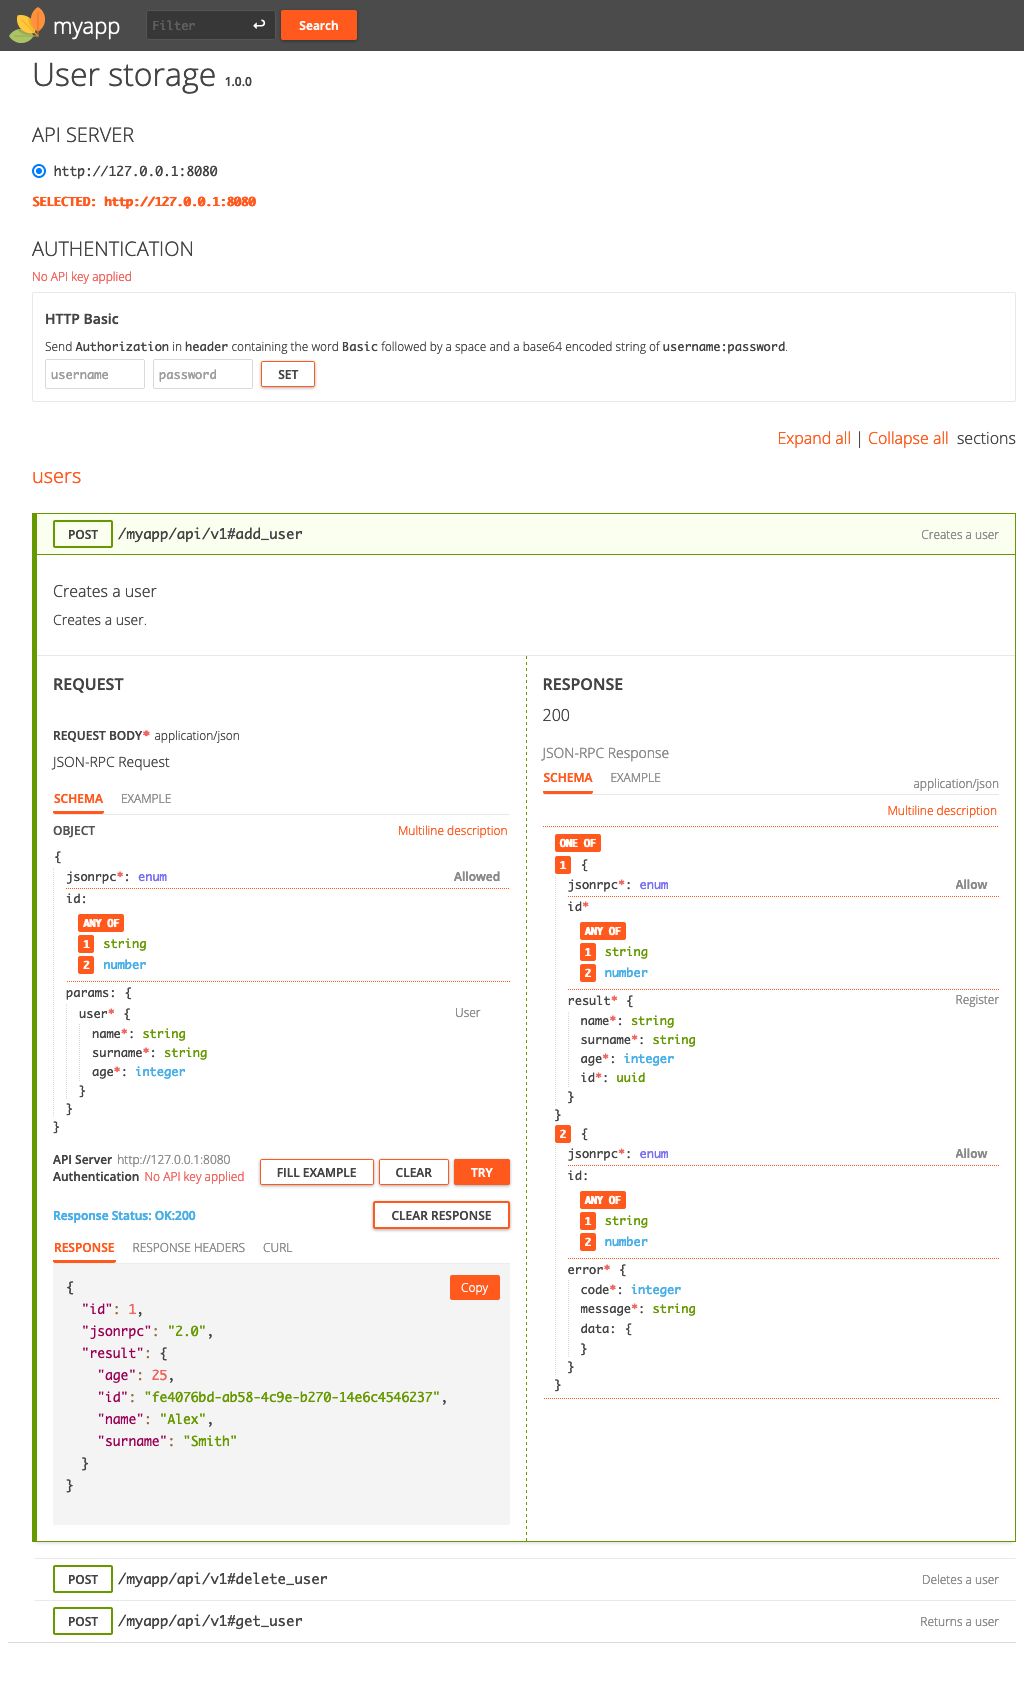
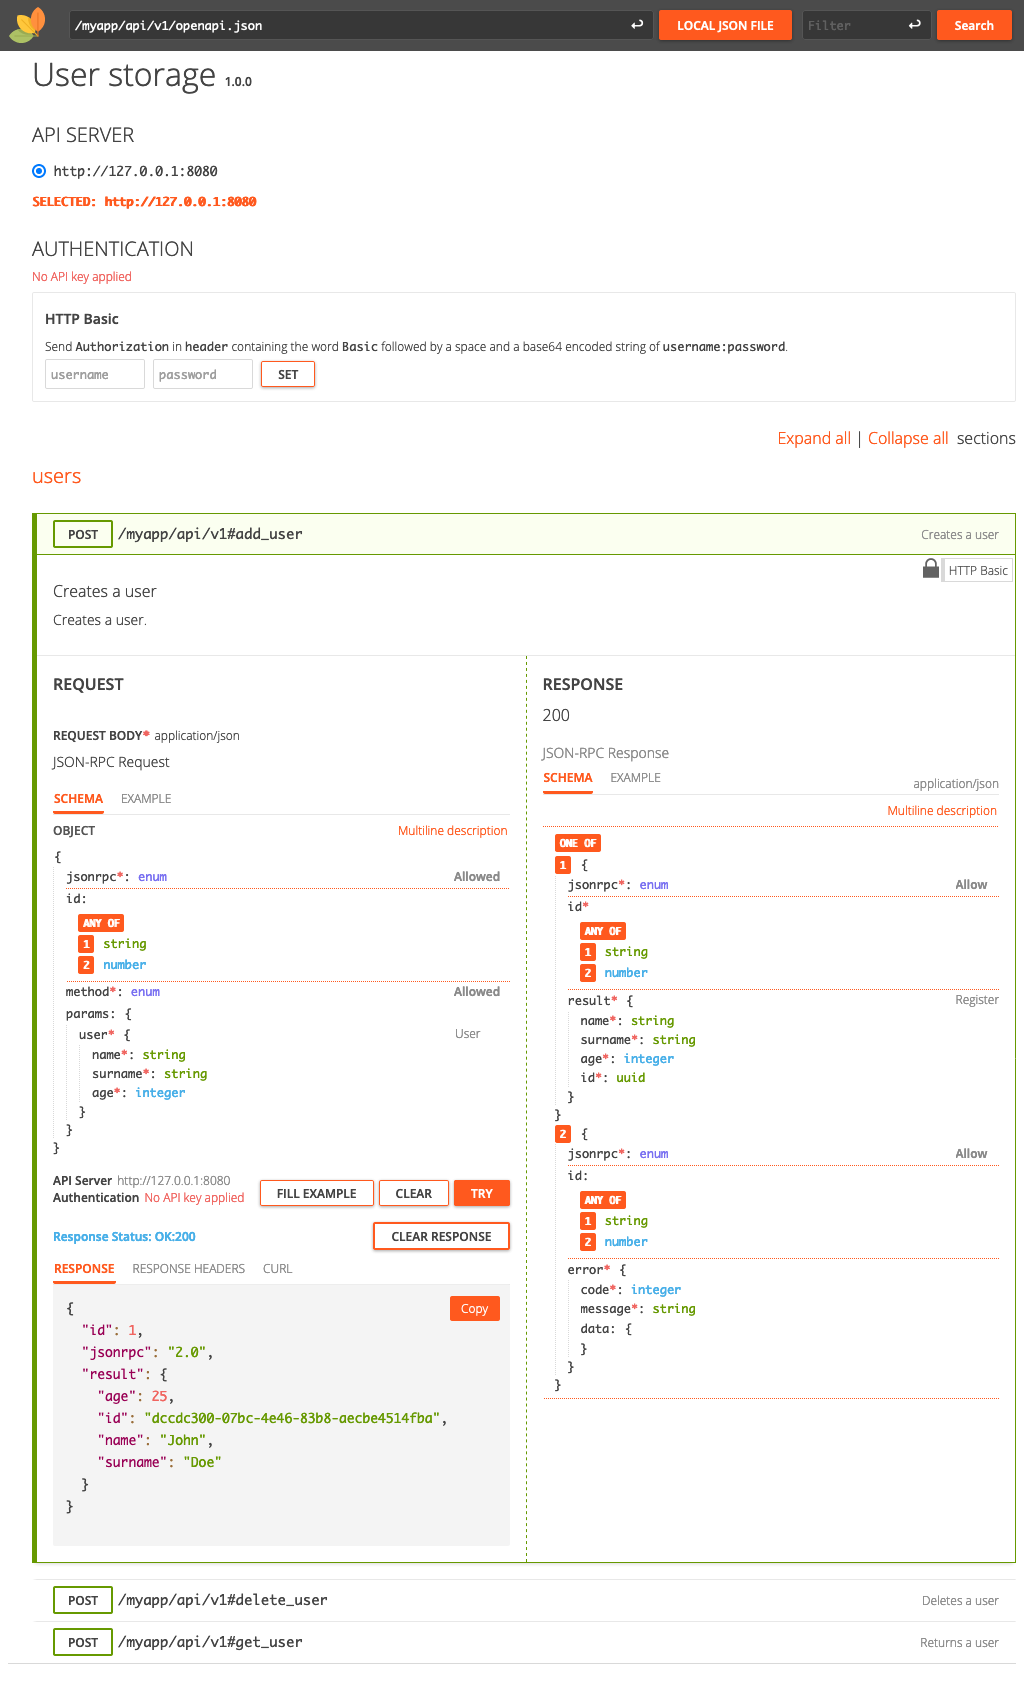
minor documentation fixes.

diff --git a/examples/openrpc_flask.py b/examples/openrpc_flask.py
@@ -74,8 +74,8 @@ class NotFoundError(pjrpc.exc.JsonRpcError):
                 specs.ExampleObject(
                     name='user',
                     value={
-                        'name': 'Alex',
-                        'surname': 'Smith',
+                        'name': 'John',
+                        'surname': 'Doe',
                         'age': 25,
                     },
                 ),
@@ -84,8 +84,8 @@ class NotFoundError(pjrpc.exc.JsonRpcError):
                 name='result',
                 value={
                     'id': 'c47726c6-a232-45f1-944f-60b98966ff1b',
-                    'name': 'Alex',
-                    'surname': 'Smith',
+                    'name': 'John',
+                    'surname': 'Doe',
                     'age': 25,
                 },
             ),
@@ -131,8 +131,8 @@ def add_user(user: UserIn) -> UserOut:
                 name="result",
                 value={
                     'id': 'c47726c6-a232-45f1-944f-60b98966ff1b',
-                    'name': 'Alex',
-                    'surname': 'Smith',
+                    'name': 'John',
+                    'surname': 'Doe',
                     'age': 25,
                 },
             ),

diff --git a/examples/openapi_flask.py b/examples/openapi_flask.py
@@ -89,15 +89,15 @@ class NotFoundError(pjrpc.exc.JsonRpcError):
             summary="Simple example",
             params=dict(
                 user={
-                    'name': 'Alex',
-                    'surname': 'Smith',
+                    'name': 'John',
+                    'surname': 'Doe',
                     'age': 25,
                 },
             ),
             result={
                 'id': 'c47726c6-a232-45f1-944f-60b98966ff1b',
-                'name': 'Alex',
-                'surname': 'Smith',
+                'name': 'John',
+                'surname': 'Doe',
                 'age': 25,
             },
         ),
@@ -134,10 +134,10 @@ def add_user(user: UserIn) -> UserOut:
                 user_id='c47726c6-a232-45f1-944f-60b98966ff1b',
             ),
             result={
-                 'id': 'c47726c6-a232-45f1-944f-60b98966ff1b',
-                 'name': 'Alex',
-                 'surname': 'Smith',
-                 'age': 25,
+                'id': 'c47726c6-a232-45f1-944f-60b98966ff1b',
+                'name': 'John',
+                'surname': 'Doe',
+                'age': 25,
             },
         ),
     ],

diff --git a/examples/django/mysite/jsonrpc/users.py b/examples/django/mysite/jsonrpc/users.py
@@ -57,15 +57,15 @@ class NotFoundError(pjrpc.exc.JsonRpcError):
             summary="Simple example",
             params=dict(
                 user={
-                    'name': 'Alex',
-                    'surname': 'Smith',
+                    'name': 'John',
+                    'surname': 'Doe',
                     'age': 25,
                 },
             ),
             result={
                 'id': 'c47726c6-a232-45f1-944f-60b98966ff1b',
-                'name': 'Alex',
-                'surname': 'Smith',
+                'name': 'John',
+                'surname': 'Doe',
                 'age': 25,
             },
         ),
@@ -100,8 +100,8 @@ def add_user(request: HttpRequest, user: UserIn) -> UserOut:
             ),
             result={
                  'id': 'c47726c6-a232-45f1-944f-60b98966ff1b',
-                 'name': 'Alex',
-                 'surname': 'Smith',
+                 'name': 'John',
+                 'surname': 'Doe',
                  'age': 25,
             },
         ),

diff --git a/examples/openapi_aiohttp.py b/examples/openapi_aiohttp.py
@@ -83,15 +83,15 @@ class NotFoundError(pjrpc.exc.JsonRpcError):
             summary="Simple example",
             params=dict(
                 user={
-                    'name': 'Alex',
-                    'surname': 'Smith',
+                    'name': 'John',
+                    'surname': 'Doe',
                     'age': 25,
                 },
             ),
             result={
                 'id': 'c47726c6-a232-45f1-944f-60b98966ff1b',
-                'name': 'Alex',
-                'surname': 'Smith',
+                'name': 'John',
+                'surname': 'Doe',
                 'age': 25,
             },
         ),
@@ -130,8 +130,8 @@ def add_user(request: web.Request, user: UserIn) -> UserOut:
             ),
             result={
                  'id': 'c47726c6-a232-45f1-944f-60b98966ff1b',
-                 'name': 'Alex',
-                 'surname': 'Smith',
+                 'name': 'John',
+                 'surname': 'Doe',
                  'age': 25,
             },
         ),

diff --git a/examples/openapi_aiohttp_subendpoints.py b/examples/openapi_aiohttp_subendpoints.py
@@ -61,15 +61,15 @@ class AlreadyExistsError(pjrpc.exc.JsonRpcError):
             summary="Simple example",
             params=dict(
                 user={
-                    'name': 'Alex',
-                    'surname': 'Smith',
+                    'name': 'John',
+                    'surname': 'Doe',
                     'age': 25,
                 },
             ),
             result={
                 'id': 'c47726c6-a232-45f1-944f-60b98966ff1b',
-                'name': 'Alex',
-                'surname': 'Smith',
+                'name': 'John',
+                'surname': 'Doe',
                 'age': 25,
             },
         ),

diff --git a/examples/openapi_flask_subendpoints.py b/examples/openapi_flask_subendpoints.py
@@ -62,15 +62,15 @@ class AlreadyExistsError(pjrpc.exc.JsonRpcError):
             summary="Simple example",
             params=dict(
                 user={
-                    'name': 'Alex',
-                    'surname': 'Smith',
+                    'name': 'John',
+                    'surname': 'Doe',
                     'age': 25,
                 },
             ),
             result={
                 'id': 'c47726c6-a232-45f1-944f-60b98966ff1b',
-                'name': 'Alex',
-                'surname': 'Smith',
+                'name': 'John',
+                'surname': 'Doe',
                 'age': 25,
             },
         ),

diff --git a/README.rst b/README.rst
@@ -544,15 +544,15 @@ and Swagger UI web tool with basic auth:
                 summary="Simple example",
                 params=dict(
                     user={
-                        'name': 'Alex',
-                        'surname': 'Smith',
+                        'name': 'John',
+                        'surname': 'Doe',
                         'age': 25,
                     },
                 ),
                 result={
                     'id': 'c47726c6-a232-45f1-944f-60b98966ff1b',
-                    'name': 'Alex',
-                    'surname': 'Smith',
+                    'name': 'John',
+                    'surname': 'Doe',
                     'age': 25,
                 },
             ),
@@ -589,10 +589,10 @@ and Swagger UI web tool with basic auth:
                     user_id='c47726c6-a232-45f1-944f-60b98966ff1b',
                 ),
                 result={
-                     'id': 'c47726c6-a232-45f1-944f-60b98966ff1b',
-                     'name': 'Alex',
-                     'surname': 'Smith',
-                     'age': 25,
+                    'id': 'c47726c6-a232-45f1-944f-60b98966ff1b',
+                    'name': 'John',
+                    'surname': 'Doe',
+                    'age': 25,
                 },
             ),
         ],
@@ -608,11 +608,11 @@ and Swagger UI web tool with basic auth:
         :raise NotFoundError: user not found
         """
 
-        user = flask.current_app.users_db.get(user_id)
+        user = flask.current_app.users_db.get(user_id.hex)
         if not user:
             raise NotFoundError()
 
-        return UserOut(**user.dict())
+        return UserOut(id=user_id, **user.dict())
 
 
     @specs.annotate(
@@ -638,7 +638,7 @@ and Swagger UI web tool with basic auth:
         :raise NotFoundError: user not found
         """
 
-        user = flask.current_app.users_db.pop(user_id, None)
+        user = flask.current_app.users_db.pop(user_id.hex, None)
         if not user:
             raise NotFoundError()
 
@@ -660,7 +660,7 @@ and Swagger UI web tool with basic auth:
                 ),
             ),
             security=[
-                dict(basicAuth=[])
+                dict(basicAuth=[]),
             ],
             schema_extractor=extractors.pydantic.PydanticSchemaExtractor(),
             ui=specs.SwaggerUI(),

diff --git a/docs/source/pjrpc/quickstart.rst b/docs/source/pjrpc/quickstart.rst
@@ -474,15 +474,15 @@ Swagger UI web tool with basic auth:
                 summary="Simple example",
                 params=dict(
                     user={
-                        'name': 'Alex',
-                        'surname': 'Smith',
+                        'name': 'John',
+                        'surname': 'Doe',
                         'age': 25,
                     },
                 ),
                 result={
                     'id': 'c47726c6-a232-45f1-944f-60b98966ff1b',
-                    'name': 'Alex',
-                    'surname': 'Smith',
+                    'name': 'John',
+                    'surname': 'Doe',
                     'age': 25,
                 },
             ),
@@ -520,8 +520,8 @@ Swagger UI web tool with basic auth:
                 ),
                 result={
                      'id': 'c47726c6-a232-45f1-944f-60b98966ff1b',
-                     'name': 'Alex',
-                     'surname': 'Smith',
+                     'name': 'John',
+                     'surname': 'Doe',
                      'age': 25,
                 },
             ),

diff --git a/docs/source/pjrpc/webui.rst b/docs/source/pjrpc/webui.rst
@@ -144,15 +144,15 @@ using flask web framework:
                 summary="Simple example",
                 params=dict(
                     user={
-                        'name': 'Alex',
-                        'surname': 'Smith',
+                        'name': 'John',
+                        'surname': 'Doe',
                         'age': 25,
                     },
                 ),
                 result={
                     'id': 'c47726c6-a232-45f1-944f-60b98966ff1b',
-                    'name': 'Alex',
-                    'surname': 'Smith',
+                    'name': 'John',
+                    'surname': 'Doe',
                     'age': 25,
                 },
             ),
@@ -190,8 +190,8 @@ using flask web framework:
                 ),
                 result={
                      'id': 'c47726c6-a232-45f1-944f-60b98966ff1b',
-                     'name': 'Alex',
-                     'surname': 'Smith',
+                     'name': 'John',
+                     'surname': 'Doe',
                      'age': 25,
                 },
             ),

diff --git a/docs/source/pjrpc/specification.rst b/docs/source/pjrpc/specification.rst
@@ -76,15 +76,15 @@ inheriting it from :py:class:`pjrpc.server.specs.extractors.BaseSchemaExtractor`
                 summary="Simple example",
                 params=dict(
                     user={
-                        'name': 'Alex',
-                        'surname': 'Smith',
+                        'name': 'John',
+                        'surname': 'Doe',
                         'age': 25,
                     },
                 ),
                 result={
                     'id': 'c47726c6-a232-45f1-944f-60b98966ff1b',
-                    'name': 'Alex',
-                    'surname': 'Smith',
+                    'name': 'John',
+                    'surname': 'Doe',
                     'age': 25,
                 },
             ),
